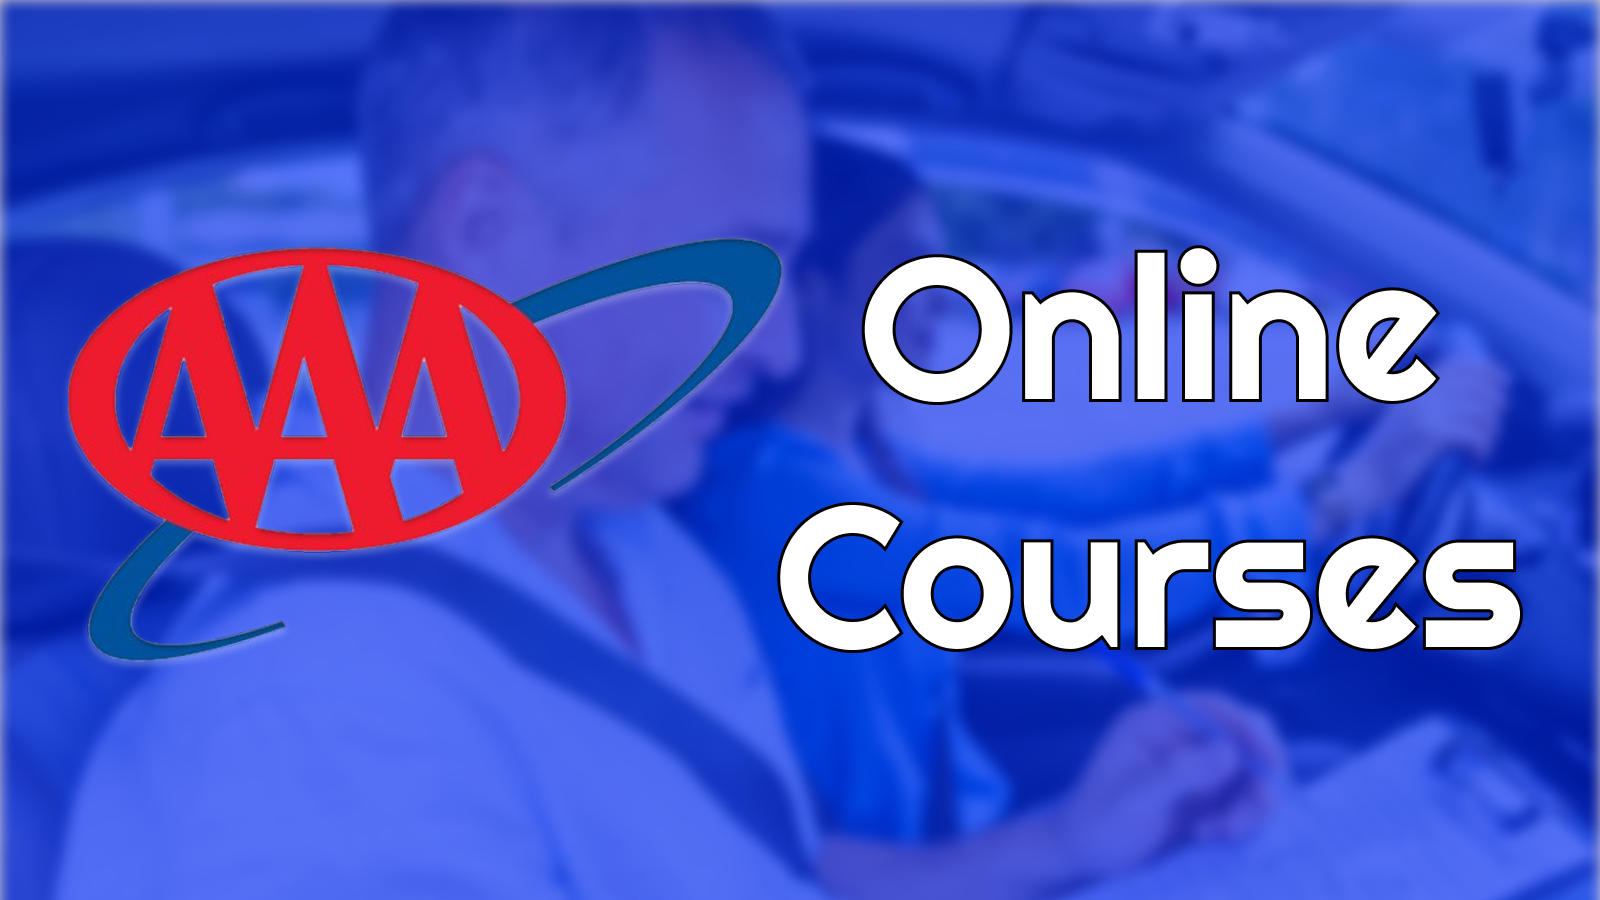
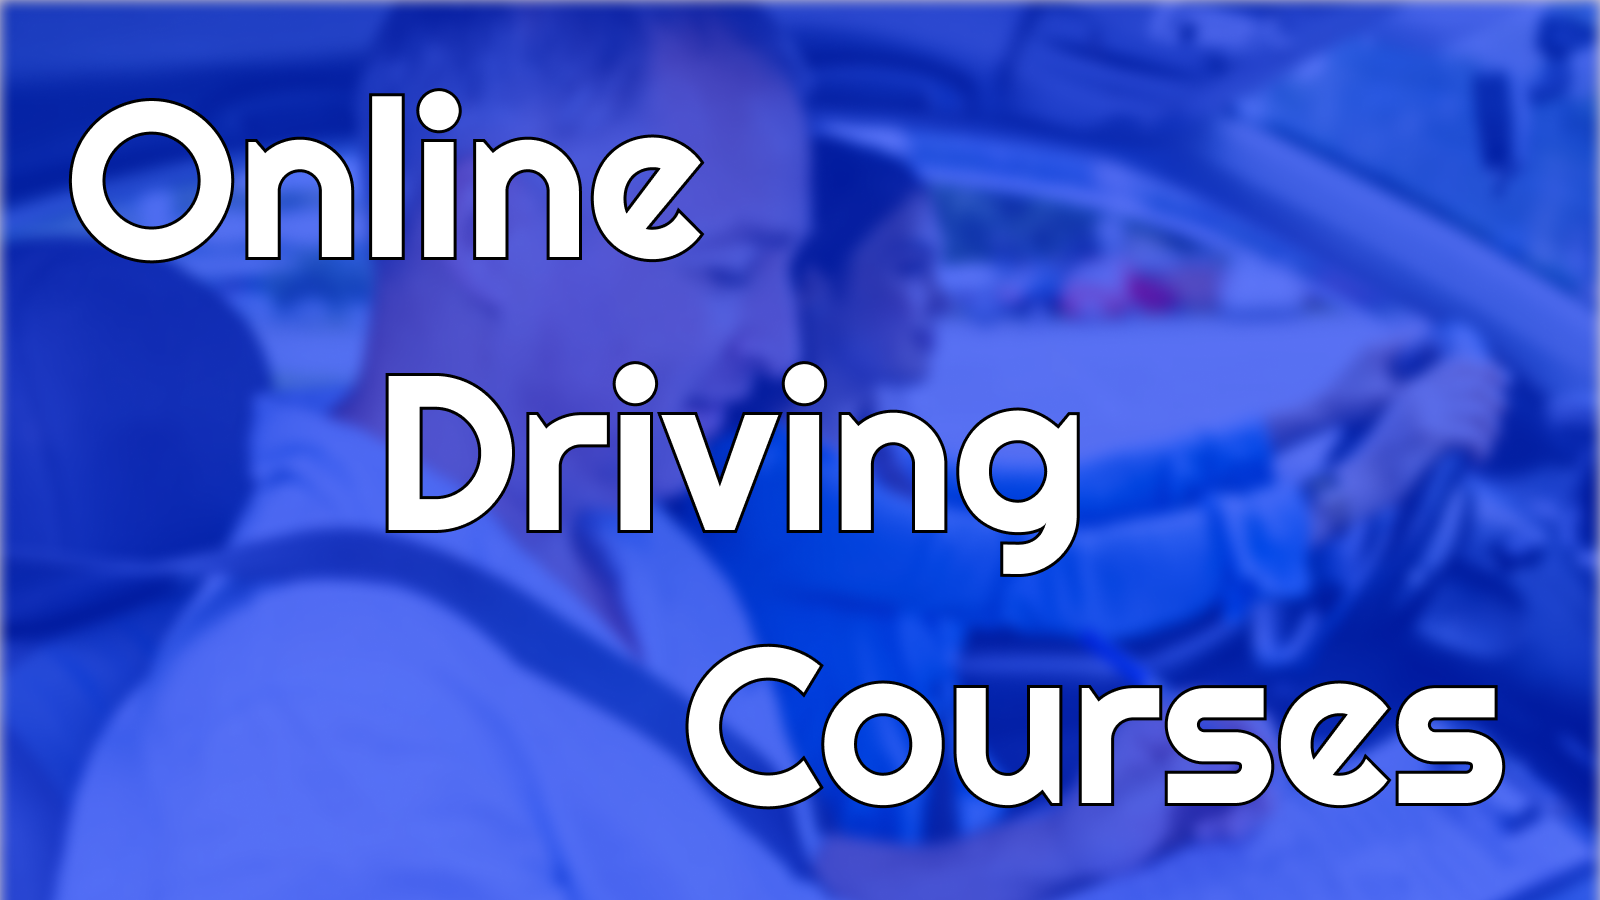
Fixes for Web Projects
- removed direct reference to AAA in the text of the project
- better clarified the tools used in some of the web projects
- fixed the driving courses and catalogs from having the same description of work

Changed region(s): [[0.0312, 0.0933, 0.9688, 0.9022]]

diff --git a/src/components/Project/ProjectDescription.jsx b/src/components/Project/ProjectDescription.jsx
@@ -161,7 +161,7 @@ function ProjectDescription(props) {
             {projectName === "In-Headset Navigation" &&
                 <>
                     <div className='project-description__short-summary'>
-                        <p><b>Technology:</b> three.js, video.js, React</p>
+                        <p><b>Technology:</b> three.js, video.js, ReactJs</p>
                         <p><b>Team Size:</b> 4</p>
                         <p><b>Duration:</b> January 2023 - August 2023</p>
                     </div>
@@ -181,7 +181,7 @@ function ProjectDescription(props) {
             {projectName === "Interaction Editor" &&
                 <>
                     <div className='project-description__short-summary'>
-                        <p><b>Technology:</b> three.js, HTML & CSS, React</p>
+                        <p><b>Technology:</b> three.js, HTML5, SCSS, ReactJs</p>
                         <p><b>Team Size:</b> 5</p>
                         <p><b>Duration:</b> March 2023 - August 2023</p>
                     </div>
@@ -201,7 +201,7 @@ function ProjectDescription(props) {
             {projectName === "Guided Playback" &&
                 <>
                     <div className='project-description__short-summary'>
-                        <p><b>Technology:</b> C#, HTML5, SCSS, React</p>
+                        <p><b>Technology:</b> C#, HTML5, SCSS, ReactJs</p>
                         <p><b>Team Size:</b> 6</p>
                         <p><b>Duration:</b> August 2022 - December 2022</p>
                     </div>
@@ -219,10 +219,10 @@ function ProjectDescription(props) {
                     
                 </>
             }
-            {projectName === "AAA Online Courses" &&
+            {projectName === "Online Driving Courses" &&
                 <>
                     <div className='project-description__short-summary'>
-                        <p><b>Technology:</b> jQuery, HTML5, CSS, PHP</p>
+                        <p><b>Technology:</b> jQuery, Bootstrap, CSS, PHP</p>
                         <p><b>Team Size:</b> 7</p>
                         <p><b>Duration:</b> December 2020 - July 2021</p>
                     </div>
@@ -230,8 +230,8 @@ function ProjectDescription(props) {
                         <h3>Roles and Responsibilities:</h3>
                         <h4>Front-end Developer</h4>
                         <ul>
-                            <li>Created wireframes that got reviewed and revised through meetings with project managers and the client</li>
-                            <li>Constructed a custom front-end piece for navigation through courses with HTML5, JavaScript, and CSS</li>   
+                            <li>Drafted wireframes and designs to clarify with the client what their requirements were and how they wanted to achieve those visually</li>
+                            <li>Constructed a custom front-end piece for navigation through courses with Bootstrap, JavaScript, and CSS</li>   
                             <li>Prototyped and developed the registration page to accept dynamic information with jQuery and PHP</li>
                             <li>Sought out possible UX issues during testing periods and developed solutions for them</li>                        
                         </ul>
@@ -241,18 +241,17 @@ function ProjectDescription(props) {
             {projectName === "Online Catalogs & Events" &&
                 <>
                     <div className='project-description__short-summary'>
-                        <p><b>Technology:</b> jQuery, HTML5, CSS, PHP</p>
-                        <p><b>Team Size:</b> 7</p>
-                        <p><b>Duration:</b> December 2020 - July 2021</p>
+                        <p><b>Technology:</b> jQuery, Bootstrap, CSS, PHP</p>
+                        <p><b>Team Size:</b> 4 - 7</p>
+                        <p><b>Duration:</b> July 2020 - August 2021</p>
                     </div>
                     <div className='project-description__roles'>
                         <h3>Roles and Responsibilities:</h3>
                         <h4>Front-end Developer</h4>
                         <ul>
-                            <li>Created wireframes that got reviewed and revised through meetings with project managers and the client</li>
-                            <li>Constructed a custom front-end piece for navigation through courses with HTML5, JavaScript, and CSS</li>   
-                            <li>Prototyped and developed the registration page to accept dynamic information with jQuery and PHP</li>
-                            <li>Sought out possible UX issues the stemmed from combining code from multiple programmers during testing periods and developed solutions for them</li>                        
+                            <li>Created wireframes in an iterative fashion directly with the client and internal project management team</li>
+                            <li>Utilized Bootstrap classes and flexbox to achieve proper responsiveness for all screen sizes</li>   
+                            <li>Worked with a system that was developed upon a JSON and AJAX framework</li>                      
                         </ul>
                     </div>
                 </>

diff --git a/src/projects.js b/src/projects.js
@@ -67,8 +67,8 @@ const Projects = [
         "https://www.youtube.com/embed/fo_O2GgBYwI?si=LkqVP8tulU3Hiu8Y",
     ),
     new Project(
-        "AAA Online Courses",
-        "Front-end design and development for AAA's new online courses.",
+        "Online Driving Courses",
+        "Front-end design and development for a large national automobile association's new online courses.",
         [
             Categories.Web
         ],
